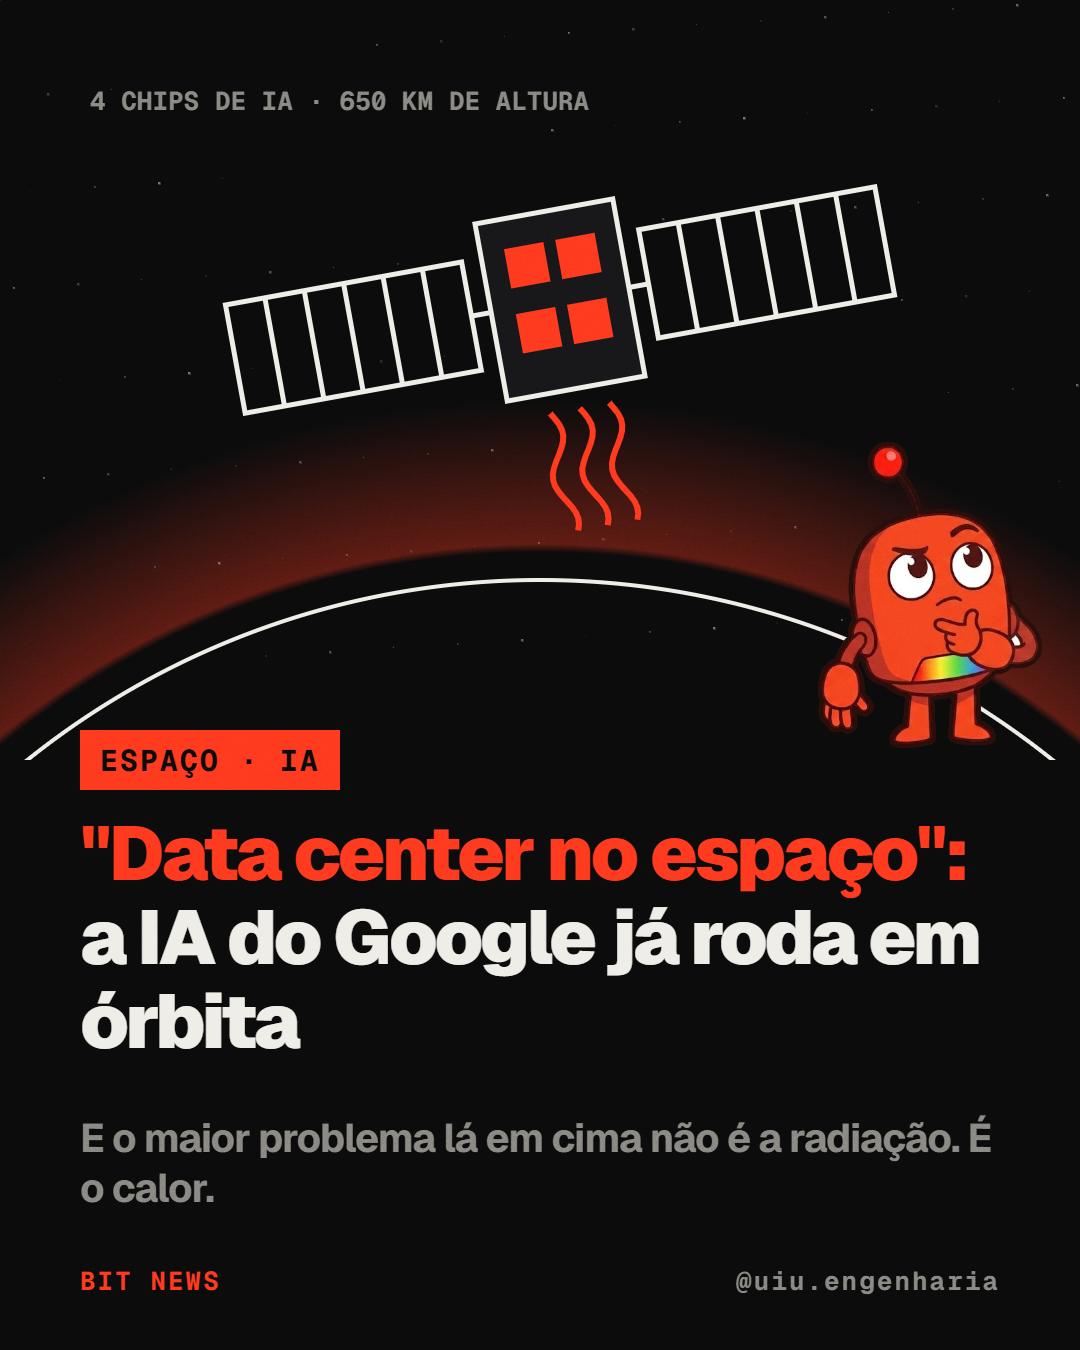
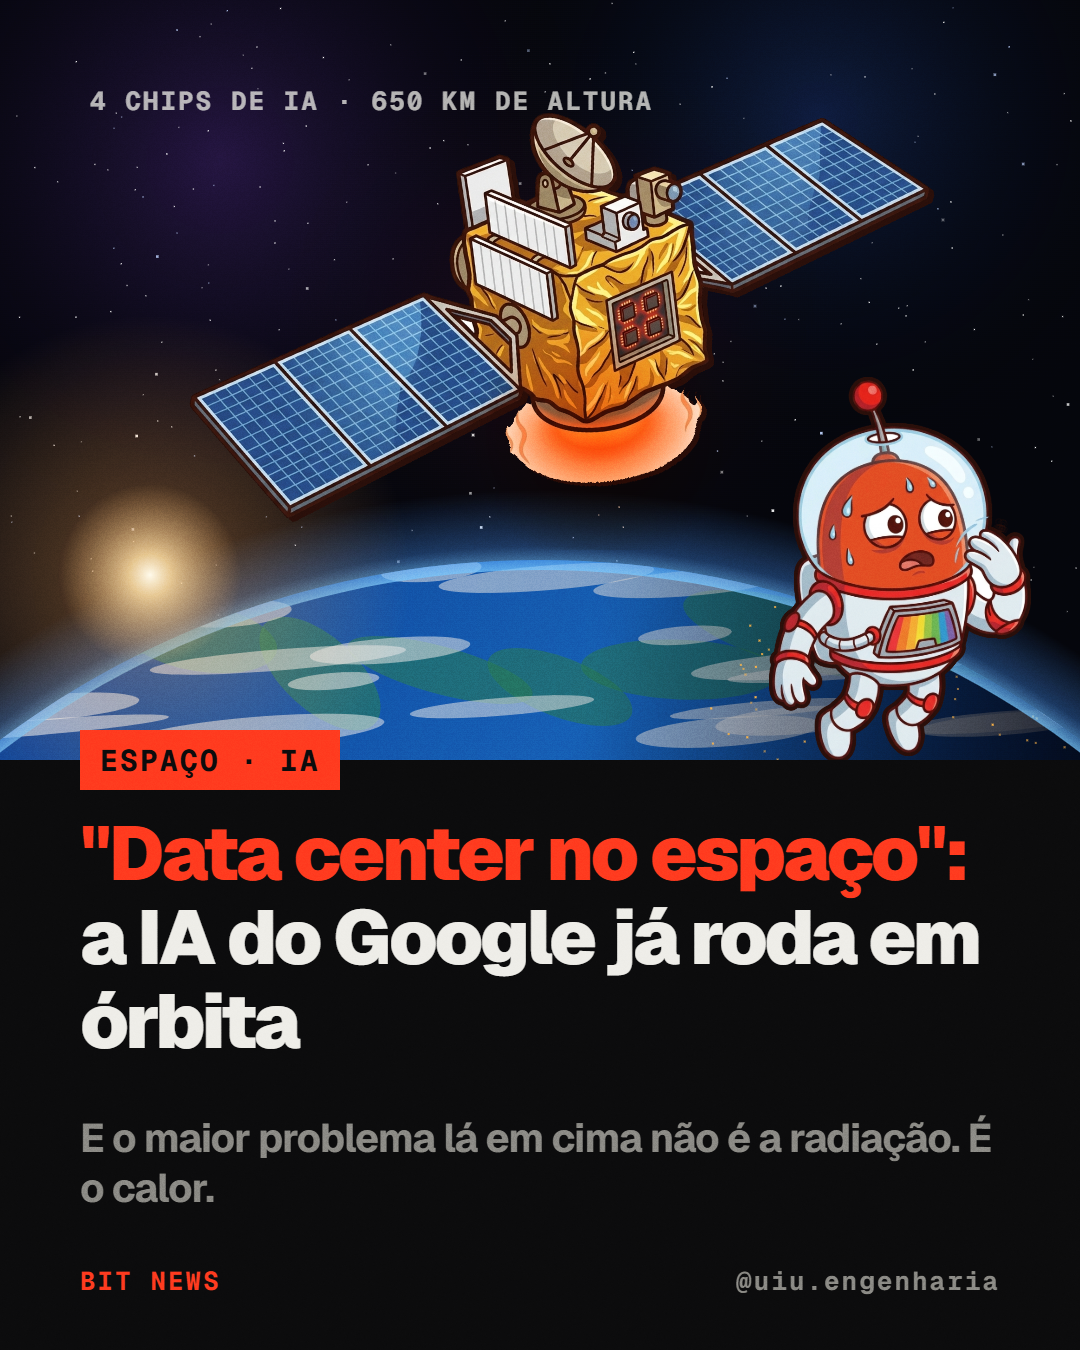
Bit News: Bit astronauta e satelite do Gemini numa cena de espaco rica

diff --git a/Conteudo_Bit/Producao/bit_news.html b/Conteudo_Bit/Producao/bit_news.html
@@ -10,22 +10,30 @@ const q = new URLSearchParams(location.search), W = 1080, H = 1350, M = 80;
 const P = BRAND.paper, A = BRAND.accent, MU = BRAND.mute, I2 = BRAND.ink2;
 const NEWS = {
   satelite: {
-    out: 'Qui08_D_Instagram_BitNews_SateliteIA.png', dir: 'semana-2026-10-05', tag: 'ESPAÇO · IA',
+    out: 'Qui08_D_Instagram_BitNews_SateliteIA.png', dir: 'semana-2026-10-05', tag: 'ESPAÇO · IA', bit: 'bit_astronauta',
     head: [['"Data center no espaço": ', A], ['a IA do Google já roda em órbita', P]],
     sub: 'E o maior problema lá em cima não é a radiação. É o calor.',
-    arte(g, bit) { // espaço, arco da Terra, satélite em traço com 4 chips e ondas de calor; o Bit observando
-      g.fillStyle = BRAND.ink; g.fillRect(0, 0, W, 760);
-      for (let i = 0; i < 90; i++) { const x = (i * 397) % W, y = (i * 263) % 700, r = (i % 3) * 0.8 + 0.8; g.fillStyle = `rgba(238,237,232,${0.15 + (i % 5) * 0.08})`; g.fillRect(x, y, r, r); }
-      const gl = g.createRadialGradient(W / 2, 1400, 600, W / 2, 1400, 1000); gl.addColorStop(0, 'rgba(255,59,31,0.0)'); gl.addColorStop(0.62, 'rgba(255,59,31,0.0)'); gl.addColorStop(0.64, 'rgba(255,59,31,0.35)'); gl.addColorStop(1, 'rgba(255,59,31,0)'); g.fillStyle = gl; g.fillRect(0, 0, W, 760);
-      g.strokeStyle = P; g.lineWidth = 4; g.beginPath(); g.arc(W / 2, 1400, 820, Math.PI * 1.2, Math.PI * 1.8); g.stroke();
-      g.save(); g.translate(560, 300); g.rotate(-0.18); g.lineWidth = 5; g.strokeStyle = P;
-      g.fillStyle = I2; g.fillRect(-70, -90, 140, 180); g.strokeRect(-70, -90, 140, 180); // corpo do tamanho de uma geladeira
-      for (let k = 0; k < 4; k++) { g.fillStyle = A; g.fillRect(-46 + (k % 2) * 52, -60 + Math.floor(k / 2) * 66, 40, 40); } // as 4 TPUs
-      for (const s of [-1, 1]) { g.strokeRect(s > 0 ? 90 : -330, -55, 240, 110); for (let c = 1; c < 6; c++) { const x0 = s > 0 ? 90 : -330; g.beginPath(); g.moveTo(x0 + c * 40, -55); g.lineTo(x0 + c * 40, 55); g.stroke(); } g.beginPath(); g.moveTo(s * 70, 0); g.lineTo(s * 90, 0); g.stroke(); }
-      g.strokeStyle = A; g.lineWidth = 6; for (let w = 0; w < 3; w++) { g.beginPath(); for (let y = 0; y <= 120; y += 6) { const x = -30 + w * 30 + Math.sin(y / 14) * 9; y ? g.lineTo(x, 110 + y) : g.moveTo(x, 110); } g.stroke(); } // calor saindo
+    arte(g, bit, sat) { // espaço de verdade: nebulosa, Terra azul com atmosfera e nascer do sol, satélite dourado esquentando; o Bit astronauta
+      const R = (a, b) => { let s = Math.sin(a * 91.7 + b * 13.1) * 43758.5; return s - Math.floor(s); };
+      g.fillStyle = '#05060C'; g.fillRect(0, 0, W, 760);
+      for (const [x, y, r, c] of [[220, 160, 420, 'rgba(110,60,190,0.30)'], [820, 120, 360, 'rgba(40,90,200,0.28)'], [560, 330, 300, 'rgba(200,60,120,0.14)']]) { const n = g.createRadialGradient(x, y, 0, x, y, r); n.addColorStop(0, c); n.addColorStop(1, 'rgba(0,0,0,0)'); g.fillStyle = n; g.fillRect(0, 0, W, 760); } // nebulosa
+      for (let i = 0; i < 260; i++) { const x = R(i, 1) * W, y = R(i, 2) * 620, s = R(i, 3) < 0.92 ? 1.2 : 2.6; g.globalAlpha = 0.35 + R(i, 4) * 0.65; g.fillStyle = R(i, 5) < 0.15 ? '#BFD4FF' : '#FFFFFF'; g.fillRect(x, y, s, s); } g.globalAlpha = 1;
+      // Terra: disco grande saindo por baixo, oceano em gradiente, nuvens, lado noturno com luzes de cidade
+      const cx = W / 2, cy = 1460, r = 900;
+      g.save(); g.beginPath(); g.arc(cx, cy, r, 0, 7); g.clip();
+      const oc = g.createLinearGradient(0, cy - r, W, cy - r + 500); oc.addColorStop(0, '#0B3D91'); oc.addColorStop(0.5, '#1A6FD1'); oc.addColorStop(1, '#0A2A66'); g.fillStyle = oc; g.fillRect(0, 0, W, 760);
+      g.fillStyle = 'rgba(46,140,90,0.55)'; for (let i = 0; i < 9; i++) { g.beginPath(); g.ellipse(80 + i * 120, 610 + R(i, 7) * 90, 70 + R(i, 8) * 60, 22 + R(i, 9) * 18, R(i, 10), 0, 7); g.fill(); } // continentes
+      g.fillStyle = 'rgba(255,255,255,0.55)'; for (let i = 0; i < 22; i++) { g.beginPath(); g.ellipse(R(i, 11) * W, 570 + R(i, 12) * 170, 40 + R(i, 13) * 110, 6 + R(i, 14) * 10, -0.08, 0, 7); g.fill(); } // nuvens
+      const night = g.createLinearGradient(0, 0, W, 0); night.addColorStop(0, 'rgba(2,4,14,0.0)'); night.addColorStop(0.55, 'rgba(2,4,14,0.15)'); night.addColorStop(1, 'rgba(2,4,14,0.85)'); g.fillStyle = night; g.fillRect(0, 0, W, 760);
+      g.fillStyle = '#FFB547'; for (let i = 0; i < 70; i++) { const x = 700 + R(i, 15) * 380, y = 600 + R(i, 16) * 160; g.globalAlpha = 0.5 + R(i, 17) * 0.5; g.fillRect(x, y, 2, 2); } g.globalAlpha = 1; // luzes de cidade
       g.restore();
-      g.font = '700 26px "Geist Mono"'; g.fillStyle = MU; g.fillText('4 CHIPS DE IA · 650 KM DE ALTURA', 90, 110);
-      BitArt.draw(g, bit, 930, 745, 300);
+      const atm = g.createRadialGradient(cx, cy, r - 10, cx, cy, r + 70); atm.addColorStop(0, 'rgba(120,200,255,0.75)'); atm.addColorStop(0.3, 'rgba(70,150,255,0.35)'); atm.addColorStop(1, 'rgba(70,150,255,0)'); g.fillStyle = atm; g.beginPath(); g.arc(cx, cy, r + 70, 0, 7); g.arc(cx, cy, r - 10, 0, 7, true); g.fill(); // atmosfera
+      const sun = g.createRadialGradient(150, 575, 0, 150, 575, 260); sun.addColorStop(0, 'rgba(255,250,235,1)'); sun.addColorStop(0.08, 'rgba(255,220,160,0.9)'); sun.addColorStop(0.35, 'rgba(255,170,90,0.25)'); sun.addColorStop(1, 'rgba(255,170,90,0)'); g.fillStyle = sun; g.fillRect(0, 300, 520, 460); // nascer do sol na borda
+      // satélite desenhado no Gemini no mesmo traço do Bit (Marca/cenas/satelite_ia.png), recortado do fundo branco
+      g.save(); g.translate(560, 300); g.rotate(-0.12); const sw = 760, sh = sw * sat.height / sat.width; g.drawImage(sat.sil, -sw / 2 + 4, -sh / 2 + 4, sw, sh); g.drawImage(sat, -sw / 2, -sh / 2, sw, sh); g.restore();
+      g.save(); g.globalCompositeOperation = 'multiply'; const hot = g.createRadialGradient(600, 440, 0, 600, 440, 130); hot.addColorStop(0, '#FF8A3D'); hot.addColorStop(1, '#FFFFFF'); g.fillStyle = hot; g.fillRect(470, 330, 260, 220); g.restore(); // a sobra branca do brilho vira calor laranja
+      g.font = '700 26px "Geist Mono"'; g.letterSpacing = '2px'; g.fillStyle = 'rgba(238,237,232,0.75)'; g.fillText('4 CHIPS DE IA · 650 KM DE ALTURA', 90, 110);
+      BitArt.draw(g, bit, 900, 760, 380);
     },
   },
 };
@@ -35,9 +43,11 @@ function wrap(g, parts, maxW) { // quebra preservando a cor de cada trecho
   const lines = [[]]; let w = 0; for (const [t, col] of words) { const ww = g.measureText(t).width; if (w + ww > maxW && t.trim() && lines.at(-1).length) { lines.push([]); w = 0; } if (!lines.at(-1).length && !t.trim()) continue; lines.at(-1).push([t, col]); w += ww; } return lines;
 }
 (async () => {
-  await loadBrandFonts(); const bit = await BitArt.load('/Marca/bit/bit_pensando.png');
+  await loadBrandFonts(); // o Bit fantasiado do tema, se a arte já existir; senão o pensativo
+  const bit = await BitArt.load(`/Marca/bit/${N.bit || 'bit_pensando'}.png`).catch(() => BitArt.load('/Marca/bit/bit_pensando.png'));
+  const sat = await BitArt.load('/Marca/cenas/satelite_ia.png'); // objeto de cena no traço do Bit (Gemini)
   const c = document.createElement('canvas'); c.width = W; c.height = H; const g = c.getContext('2d'); g.textBaseline = 'alphabetic';
-  g.fillStyle = BRAND.ink; g.fillRect(0, 0, W, H); N.arte(g, bit);
+  g.fillStyle = BRAND.ink; g.fillRect(0, 0, W, H); N.arte(g, bit, sat);
   g.fillStyle = BRAND.ink; g.fillRect(0, 760, W, H - 760);
   g.font = '800 30px "Geist Mono"'; g.letterSpacing = '2px'; const tw = g.measureText(N.tag).width + 40; g.fillStyle = A; g.fillRect(M, 730, tw, 60); g.fillStyle = BRAND.ink; g.fillText(N.tag, M + 20, 771);
   g.font = '900 76px Geist'; g.letterSpacing = '-3px'; let y = 880; for (const ln of wrap(g, N.head, W - 2 * M)) { let x = M; for (const [t, col] of ln) { g.fillStyle = col; g.fillText(t, x, y); x += g.measureText(t).width; } y += 84; }

diff --git a/Conteudo_Bit/Marca/bit/STATUS.md b/Conteudo_Bit/Marca/bit/STATUS.md
@@ -8,6 +8,7 @@ Os prompts estão em `PROMPTS_GEMINI.md` (numerados de 1 a 16).
 | 1 | `bit_acenando.png` | 1024×559 |
 | 2 | `bit_feliz.png` | 1024×559 |
 | 3 | `bit_pensando.png` | 1024×559 |
+| 26 | `bit_astronauta.png` | 1024×1024, fundo branco: Bit de astronauta suando e se abanando (tema espaço/calor). |
 | 25 | `bit_willstation_jogando.gif` | GIF animado 360×640, fundo escuro: Bit de boné W jogando no fliperama WILL STATION (jogo de nave). Uniforme Will Station aprovado. Peito ainda sai como placa saltada; serve para posts/stories do Will Station. |
 
 ## Faltam
